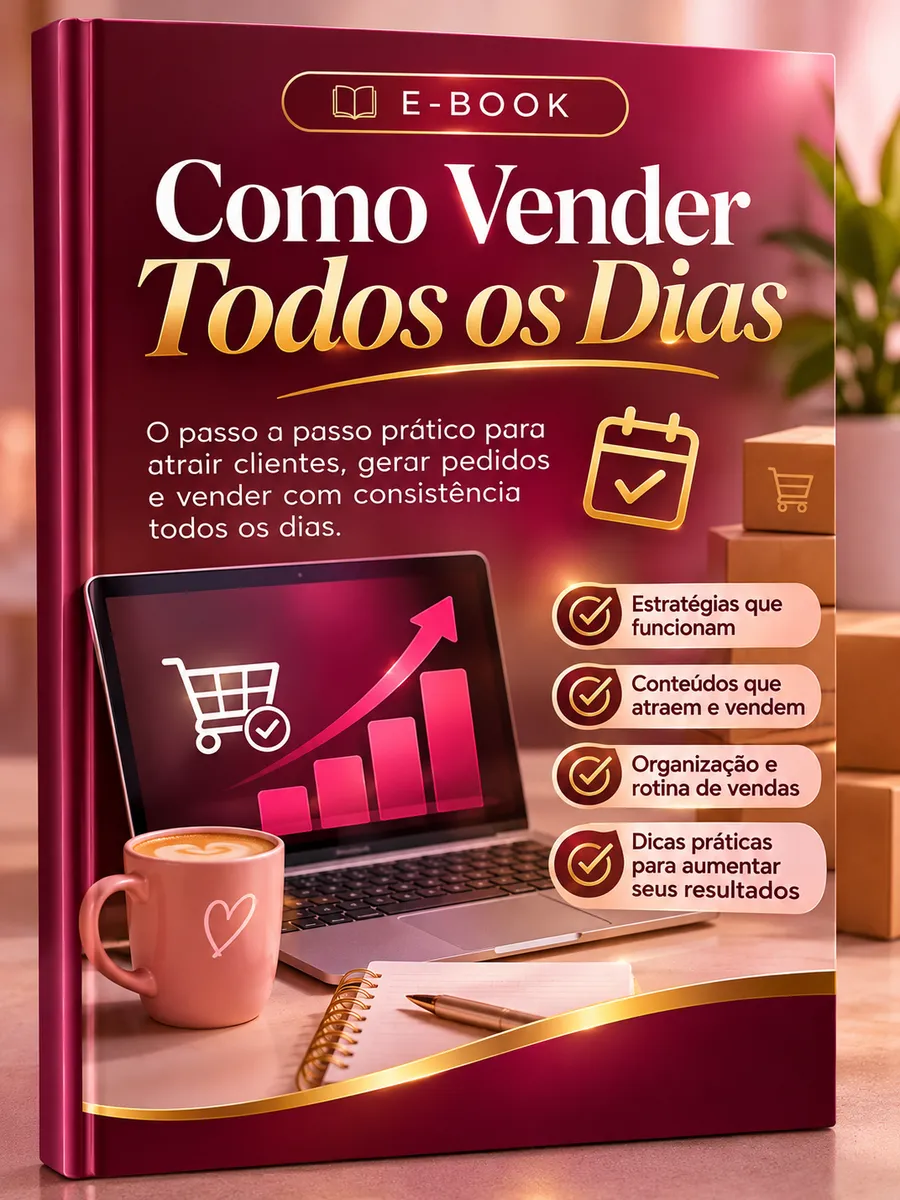
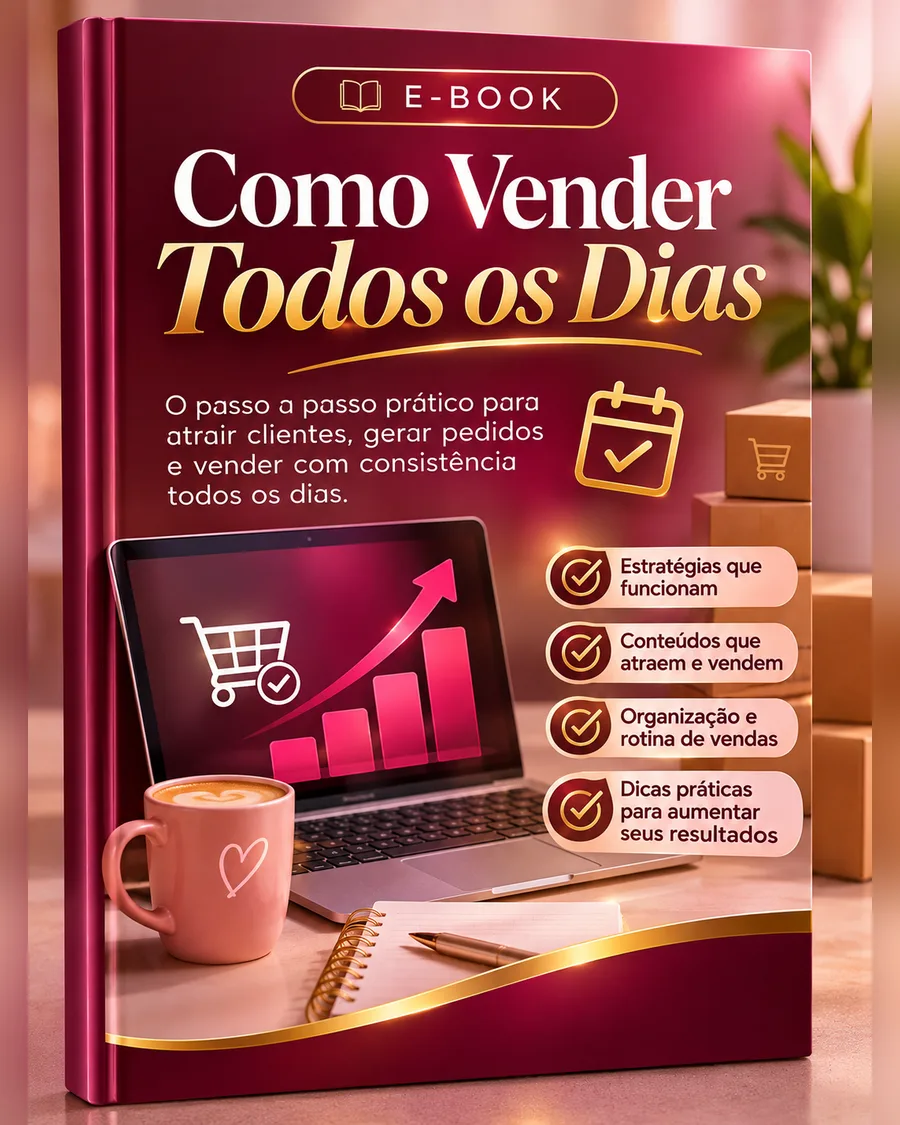
Exemplos: Doceria Encanto, Mentora Jéssica Ferreira e capas inteiras
Claude-Session: https://claude.ai/code/session_01VYbtS7FNXvMm2uFNbzr5Ez

diff --git a/public/index.html b/public/index.html
@@ -203,8 +203,8 @@
     <div class="quem">
       <div class="quem-c"><figure class="phone sm"><div class="screen"><div class="sbar" aria-hidden="true"><b>9:41</b><i class="isl"></i><span><svg viewBox="0 0 18 12"><rect x="0" y="8" width="3" height="4" rx="1"/><rect x="5" y="5" width="3" height="7" rx="1"/><rect x="10" y="2.5" width="3" height="9.5" rx="1"/><rect x="15" y="0" width="3" height="12" rx="1"/></svg><svg viewBox="0 0 26 12"><rect x=".5" y=".5" width="21" height="11" rx="3" fill="none" stroke="currentColor" opacity=".45"/><rect x="2.5" y="2.5" width="15" height="7" rx="1.5"/><rect x="23" y="4" width="2" height="4" rx="1" opacity=".45"/></svg></span></div><div class="sview"><iframe class="live" name="zcdemo" src="/jessica-hair?embed=1" loading="lazy" title="Exemplo de loja de produtos: Jessica Hair"></iframe></div><i class="home" aria-hidden="true"></i></div></figure><b>Quem vende produtos</b><span>Roupas, cabelos, acessórios, cosméticos, revenda.</span><a href="/jessica-hair" target="_blank" rel="noopener">Abrir exemplo →</a></div>
       <div class="quem-c"><figure class="phone sm"><div class="screen"><div class="sbar" aria-hidden="true"><b>9:41</b><i class="isl"></i><span><svg viewBox="0 0 18 12"><rect x="0" y="8" width="3" height="4" rx="1"/><rect x="5" y="5" width="3" height="7" rx="1"/><rect x="10" y="2.5" width="3" height="9.5" rx="1"/><rect x="15" y="0" width="3" height="12" rx="1"/></svg><svg viewBox="0 0 26 12"><rect x=".5" y=".5" width="21" height="11" rx="3" fill="none" stroke="currentColor" opacity=".45"/><rect x="2.5" y="2.5" width="15" height="7" rx="1.5"/><rect x="23" y="4" width="2" height="4" rx="1" opacity=".45"/></svg></span></div><div class="sview"><iframe class="live" name="zcdemo" src="/exemplo/servicos" loading="lazy" title="Exemplo de serviços: Studio Beleza"></iframe></div><i class="home" aria-hidden="true"></i></div></figure><b>Quem oferece serviços</b><span>Salão, unhas, sobrancelha, estética, aulas, consultoria.</span><a href="/exemplo/servicos" target="_blank" rel="noopener">Abrir exemplo →</a></div>
-      <div class="quem-c"><figure class="phone sm"><div class="screen"><div class="sbar" aria-hidden="true"><b>9:41</b><i class="isl"></i><span><svg viewBox="0 0 18 12"><rect x="0" y="8" width="3" height="4" rx="1"/><rect x="5" y="5" width="3" height="7" rx="1"/><rect x="10" y="2.5" width="3" height="9.5" rx="1"/><rect x="15" y="0" width="3" height="12" rx="1"/></svg><svg viewBox="0 0 26 12"><rect x=".5" y=".5" width="21" height="11" rx="3" fill="none" stroke="currentColor" opacity=".45"/><rect x="2.5" y="2.5" width="15" height="7" rx="1.5"/><rect x="23" y="4" width="2" height="4" rx="1" opacity=".45"/></svg></span></div><div class="sview"><iframe class="live" name="zcdemo" src="/exemplo/alimentos" loading="lazy" title="Exemplo de alimentos: Doceria"></iframe></div><i class="home" aria-hidden="true"></i></div></figure><b>Quem vende comida</b><span>Doces, bolos, salgados, marmitas, lanches e bebidas.</span><a href="/exemplo/alimentos" target="_blank" rel="noopener">Abrir exemplo →</a></div>
-      <div class="quem-c"><figure class="phone sm"><div class="screen"><div class="sbar" aria-hidden="true"><b>9:41</b><i class="isl"></i><span><svg viewBox="0 0 18 12"><rect x="0" y="8" width="3" height="4" rx="1"/><rect x="5" y="5" width="3" height="7" rx="1"/><rect x="10" y="2.5" width="3" height="9.5" rx="1"/><rect x="15" y="0" width="3" height="12" rx="1"/></svg><svg viewBox="0 0 26 12"><rect x=".5" y=".5" width="21" height="11" rx="3" fill="none" stroke="currentColor" opacity=".45"/><rect x="2.5" y="2.5" width="15" height="7" rx="1.5"/><rect x="23" y="4" width="2" height="4" rx="1" opacity=".45"/></svg></span></div><div class="sview"><iframe class="live" name="zcdemo" src="/exemplo/mentorias" loading="lazy" title="Exemplo de mentoria e infoprodutos"></iframe></div><i class="home" aria-hidden="true"></i></div></figure><b>Quem vende mentoria</b><span>Mentorias, cursos, e-books, consultorias e materiais digitais.</span><a href="/exemplo/mentorias" target="_blank" rel="noopener">Abrir exemplo →</a></div>
+      <div class="quem-c"><figure class="phone sm"><div class="screen"><div class="sbar" aria-hidden="true"><b>9:41</b><i class="isl"></i><span><svg viewBox="0 0 18 12"><rect x="0" y="8" width="3" height="4" rx="1"/><rect x="5" y="5" width="3" height="7" rx="1"/><rect x="10" y="2.5" width="3" height="9.5" rx="1"/><rect x="15" y="0" width="3" height="12" rx="1"/></svg><svg viewBox="0 0 26 12"><rect x=".5" y=".5" width="21" height="11" rx="3" fill="none" stroke="currentColor" opacity=".45"/><rect x="2.5" y="2.5" width="15" height="7" rx="1.5"/><rect x="23" y="4" width="2" height="4" rx="1" opacity=".45"/></svg></span></div><div class="sview"><iframe class="live" name="zcdemo" src="/exemplo/alimentos" loading="lazy" title="Exemplo de alimentos: Doceria Encanto"></iframe></div><i class="home" aria-hidden="true"></i></div></figure><b>Quem vende comida</b><span>Doces, bolos, salgados, marmitas, lanches e bebidas.</span><a href="/exemplo/alimentos" target="_blank" rel="noopener">Abrir exemplo →</a></div>
+      <div class="quem-c"><figure class="phone sm"><div class="screen"><div class="sbar" aria-hidden="true"><b>9:41</b><i class="isl"></i><span><svg viewBox="0 0 18 12"><rect x="0" y="8" width="3" height="4" rx="1"/><rect x="5" y="5" width="3" height="7" rx="1"/><rect x="10" y="2.5" width="3" height="9.5" rx="1"/><rect x="15" y="0" width="3" height="12" rx="1"/></svg><svg viewBox="0 0 26 12"><rect x=".5" y=".5" width="21" height="11" rx="3" fill="none" stroke="currentColor" opacity=".45"/><rect x="2.5" y="2.5" width="15" height="7" rx="1.5"/><rect x="23" y="4" width="2" height="4" rx="1" opacity=".45"/></svg></span></div><div class="sview"><iframe class="live" name="zcdemo" src="/exemplo/mentorias" loading="lazy" title="Exemplo de mentoria: Mentora Jéssica Ferreira"></iframe></div><i class="home" aria-hidden="true"></i></div></figure><b>Quem vende mentoria</b><span>Mentorias, cursos, e-books, consultorias e materiais digitais.</span><a href="/exemplo/mentorias" target="_blank" rel="noopener">Abrir exemplo →</a></div>
     </div>
   </section>
 

diff --git a/server.js b/server.js
@@ -756,7 +756,7 @@ app.get('/og/:slug.png', (req, res) => {
 
 /* ---------- vitrine pelo endereço /nome-da-loja ---------- */
 // Vitrines de exemplo da página de vendas (serviço e alimento): vêm de arquivos, não são lojas de verdade
-const EXEMPLOS = { servicos: 'Studio Beleza Exemplo', alimentos: 'Doceria Exemplo', mentorias: 'Mentoria Exemplo' };
+const EXEMPLOS = { servicos: 'Studio Beleza Exemplo', alimentos: 'Doceria Encanto', mentorias: 'Mentora Jéssica Ferreira' };
 app.get('/exemplo/:tipo', (req, res) => {
   const tipo = String(req.params.tipo);
   if (!EXEMPLOS[tipo]) return res.status(404).send(simplePage('Exemplo não encontrado', 'Confira o endereço digitado.'));
